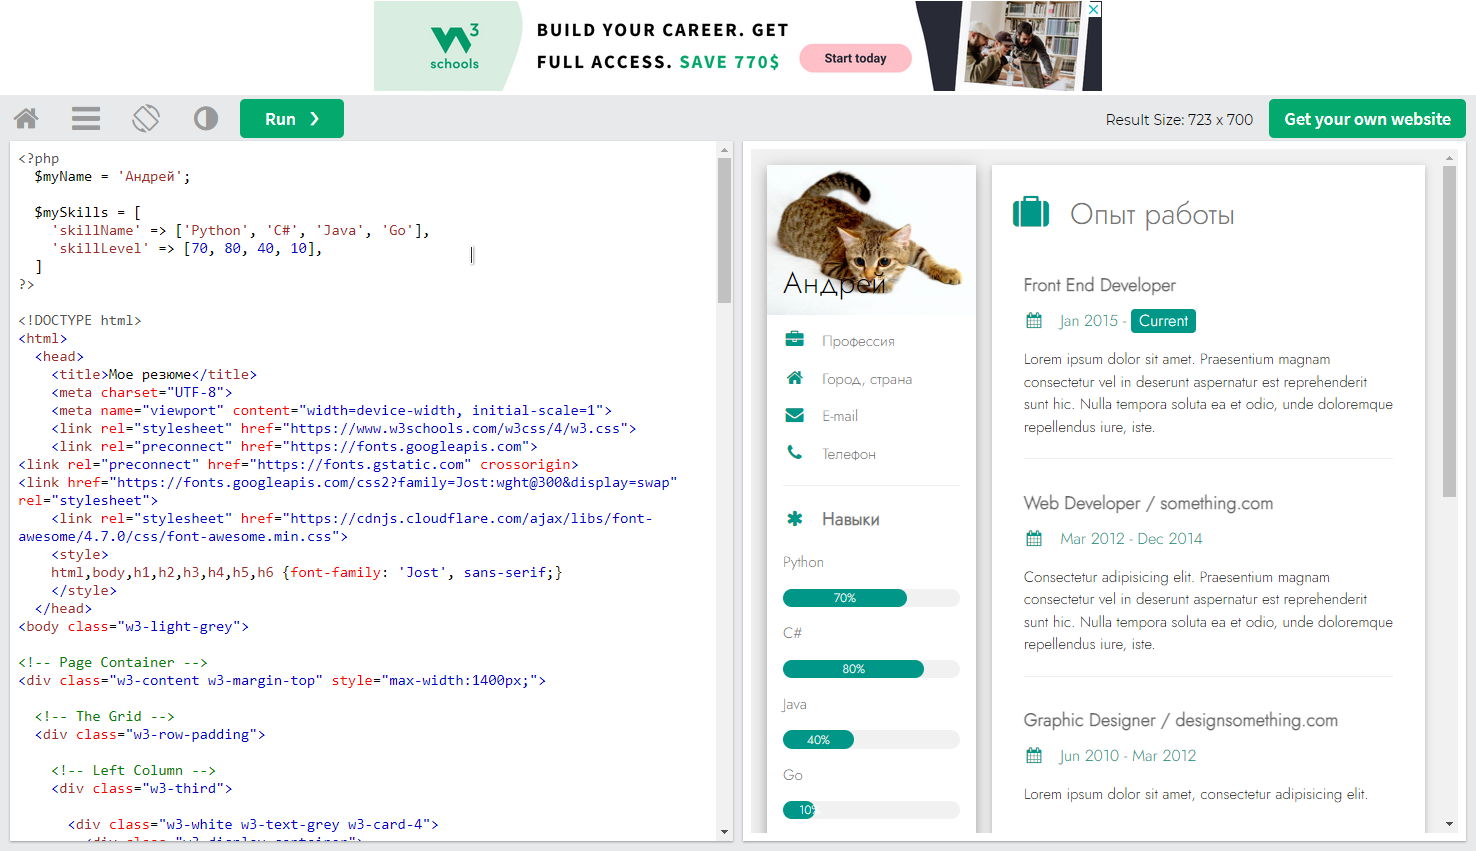
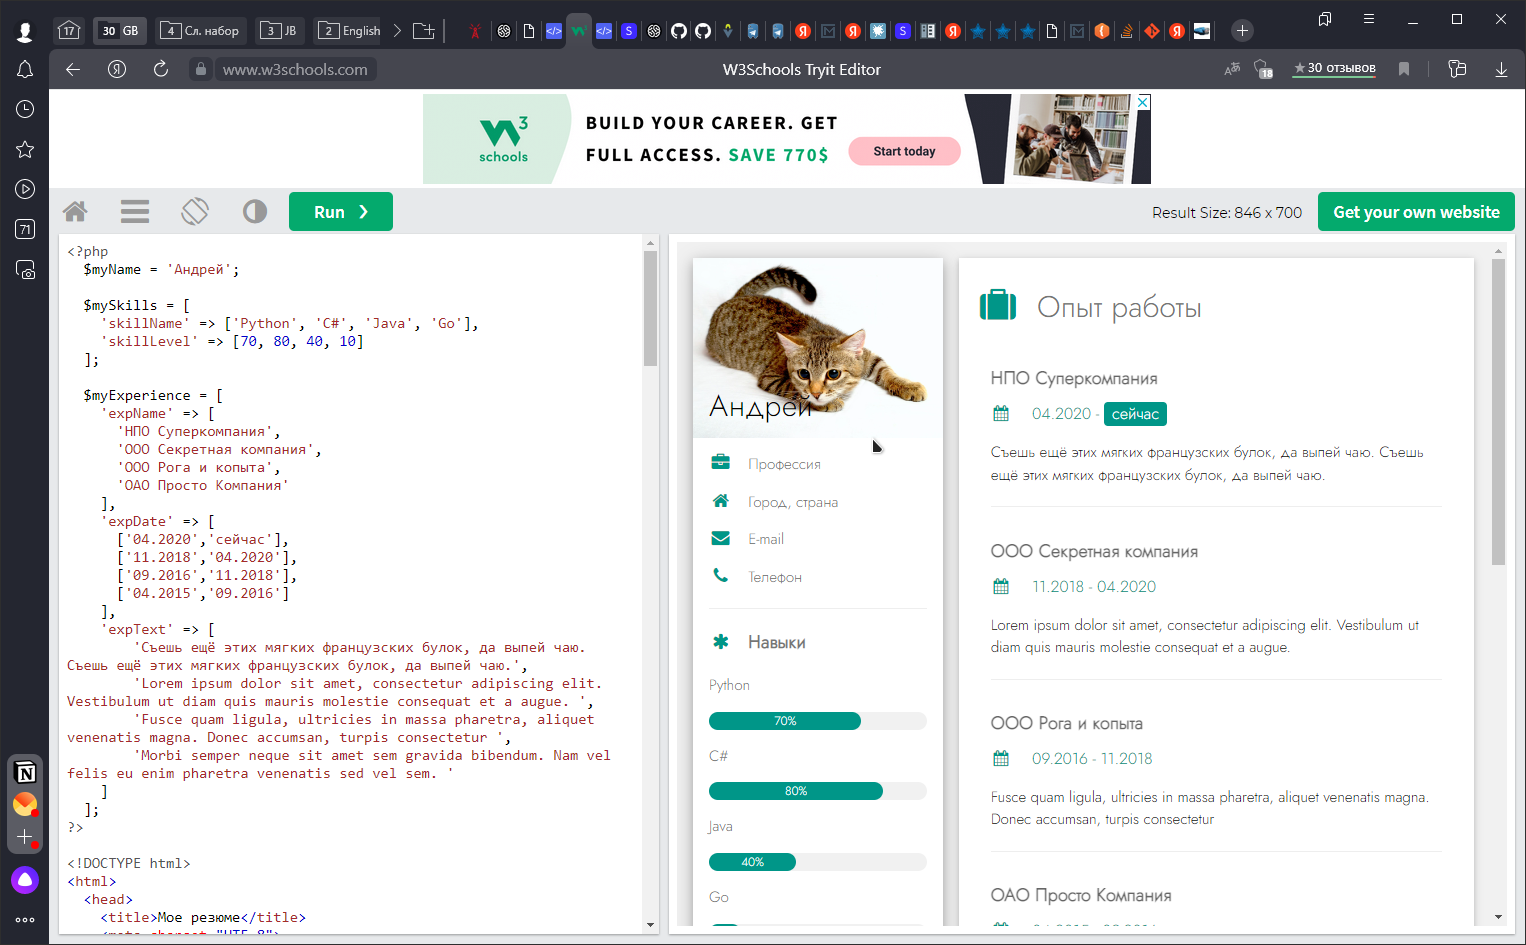
make corrections

diff --git a/task_1.php b/task_1.php
@@ -3,8 +3,29 @@
 
   $mySkills = [
     'skillName' => ['Python', 'C#', 'Java', 'Go'],
-    'skillLevel' => [70, 80, 40, 10],
-  ]
+    'skillLevel' => [70, 80, 40, 10]
+  ];
+
+  $myExperience = [
+    'expName' => [
+      'НПО Суперкомпания',
+      'ООО Секретная компания',
+      'ООО Рога и копыта',
+      'ОАО Просто Компания'
+    ],
+    'expDate' => [
+      ['04.2020','сейчас'],
+      ['11.2018','04.2020'],
+      ['09.2016','11.2018'], 
+      ['04.2015','09.2016']
+    ],
+    'expText' => [
+        'Cъешь ещё этих мягких французских булок, да выпей чаю. Cъешь ещё этих мягких французских булок, да выпей чаю.', 
+        'Lorem ipsum dolor sit amet, consectetur adipiscing elit. Vestibulum ut diam quis mauris molestie consequat et a augue. ', 
+        'Fusce quam ligula, ultricies in massa pharetra, aliquet venenatis magna. Donec accumsan, turpis consectetur ', 
+        'Morbi semper neque sit amet sem gravida bibendum. Nam vel felis eu enim pharetra venenatis sed vel sem. '
+    ]
+  ];
 ?>
 
 <!DOCTYPE html>
@@ -89,24 +110,43 @@
     
       <div class="w3-container w3-card w3-white w3-margin-bottom">
         <h2 class="w3-text-grey w3-padding-16"><i class="fa fa-suitcase fa-fw w3-margin-right w3-xxlarge w3-text-teal"></i>Опыт работы</h2>
-        <div class="w3-container">
-          <h5 class="w3-opacity"><b>Front End Developer </b></h5>
-          <h6 class="w3-text-teal"><i class="fa fa-calendar fa-fw w3-margin-right"></i>Jan 2015 - <span class="w3-tag w3-teal w3-round">Current</span></h6>
-          <p>Lorem ipsum dolor sit amet. Praesentium magnam consectetur vel in deserunt aspernatur est reprehenderit sunt hic. Nulla tempora soluta ea et odio, unde doloremque repellendus iure, iste.</p>
-          <hr>
-        </div>
-        <div class="w3-container">
-          <h5 class="w3-opacity"><b>Web Developer / something.com</b></h5>
-          <h6 class="w3-text-teal"><i class="fa fa-calendar fa-fw w3-margin-right"></i>Mar 2012 - Dec 2014</h6>
-          <p>Consectetur adipisicing elit. Praesentium magnam consectetur vel in deserunt aspernatur est reprehenderit sunt hic. Nulla tempora soluta ea et odio, unde doloremque repellendus iure, iste.</p>
-          <hr>
-        </div>
-        <div class="w3-container">
-          <h5 class="w3-opacity"><b>Graphic Designer / designsomething.com</b></h5>
-          <h6 class="w3-text-teal"><i class="fa fa-calendar fa-fw w3-margin-right"></i>Jun 2010 - Mar 2012</h6>
-          <p>Lorem ipsum dolor sit amet, consectetur adipisicing elit. </p><br>
-        </div>
-      </div>
+
+        <?php 
+          for($i = 0; $i < count($myExperience['expName']); $i++)
+          {
+          ?>
+            <div class="w3-container">
+              <h5 class="w3-opacity"><b> <?php echo $myExperience['expName'][$i]; ?> </b></h5>
+              <h6 class="w3-text-teal"><i class="fa fa-calendar fa-fw w3-margin-right"></i>
+              <?php 
+                echo $myExperience['expDate'][$i][0] . ' - ';
+              ?>
+              <?php
+                if($myExperience['expDate'][$i][1] == 'сейчас')
+                {
+                  ?>
+                  <span class="w3-tag w3-teal w3-round">
+                  <?php
+                }
+                
+                echo $myExperience['expDate'][$i][1];
+              
+                if($myExperience['expDate'][$i][1] == 'сейчас')
+                {
+                  ?>
+                  </span>
+                  <?php
+                }
+                ?>
+            </h6>
+              <p>
+                <?php echo $myExperience['expText'][$i]; ?>
+              </p>
+              <hr>
+            </div>
+          <?php
+          }
+        ?>
 
       <div class="w3-container w3-card w3-white">
         <h2 class="w3-text-grey w3-padding-16"><i class="fa fa-certificate fa-fw w3-margin-right w3-xxlarge w3-text-teal"></i>Образование</h2>

diff --git a/README.md b/README.md
@@ -7,7 +7,6 @@
 Скриншоты
 
 !["Скрин 1"](/ScreenShot/Task_01_01.png "Инициализация данных")
-!["Скрин 2"](ScreenShot/Task_01_02.png "Отображение данных")
 
 ---
 
